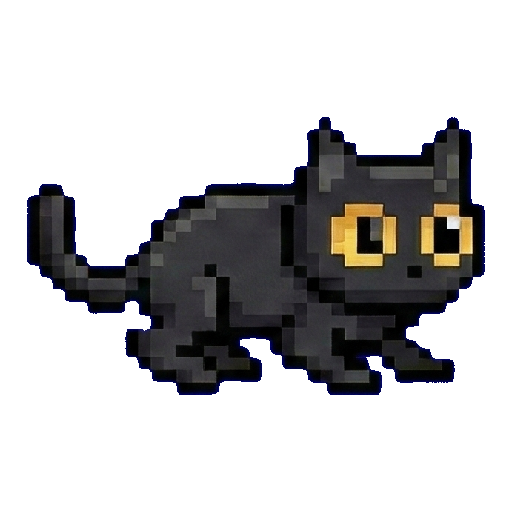
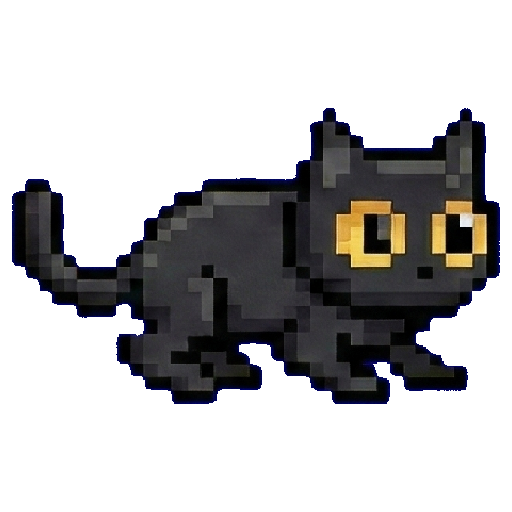
fix: center all sprites and normalize sizes for smooth animations
- Center 11 off-center sprites (walk, notification, sleep) on their
  512x512 canvas so transitions don't cause position jumps
- Scale up walk_to_sleep frame 01 by 1.065x to match other frames
- Scale down sleep sprite by 6% to match transition frame proportions
- Raise drag anchor from 0.9 to 1.15 so cursor sits above the cat's
  head during drag instead of hiding it

Changed region(s): [[0.0, 0.1875, 1.0, 0.8125], [0.5625, 0.5, 0.5938, 0.5312]]

diff --git a/Miaou/Views/CatView.swift b/Miaou/Views/CatView.swift
@@ -73,8 +73,8 @@ class CatView: NSView {
         if !isDragging {
             isDragging = true
             isDragPaused = false
-            // Snap anchor to neck (top-center) so cursor holds the scruff
-            dragOffset = NSPoint(x: bounds.width / 2, y: bounds.height * 0.9)
+            // Snap anchor above head so cursor doesn't hide the cat
+            dragOffset = NSPoint(x: bounds.width / 2, y: bounds.height * 1.15)
             delegate?.catViewDragDidBegin()
         }
 
